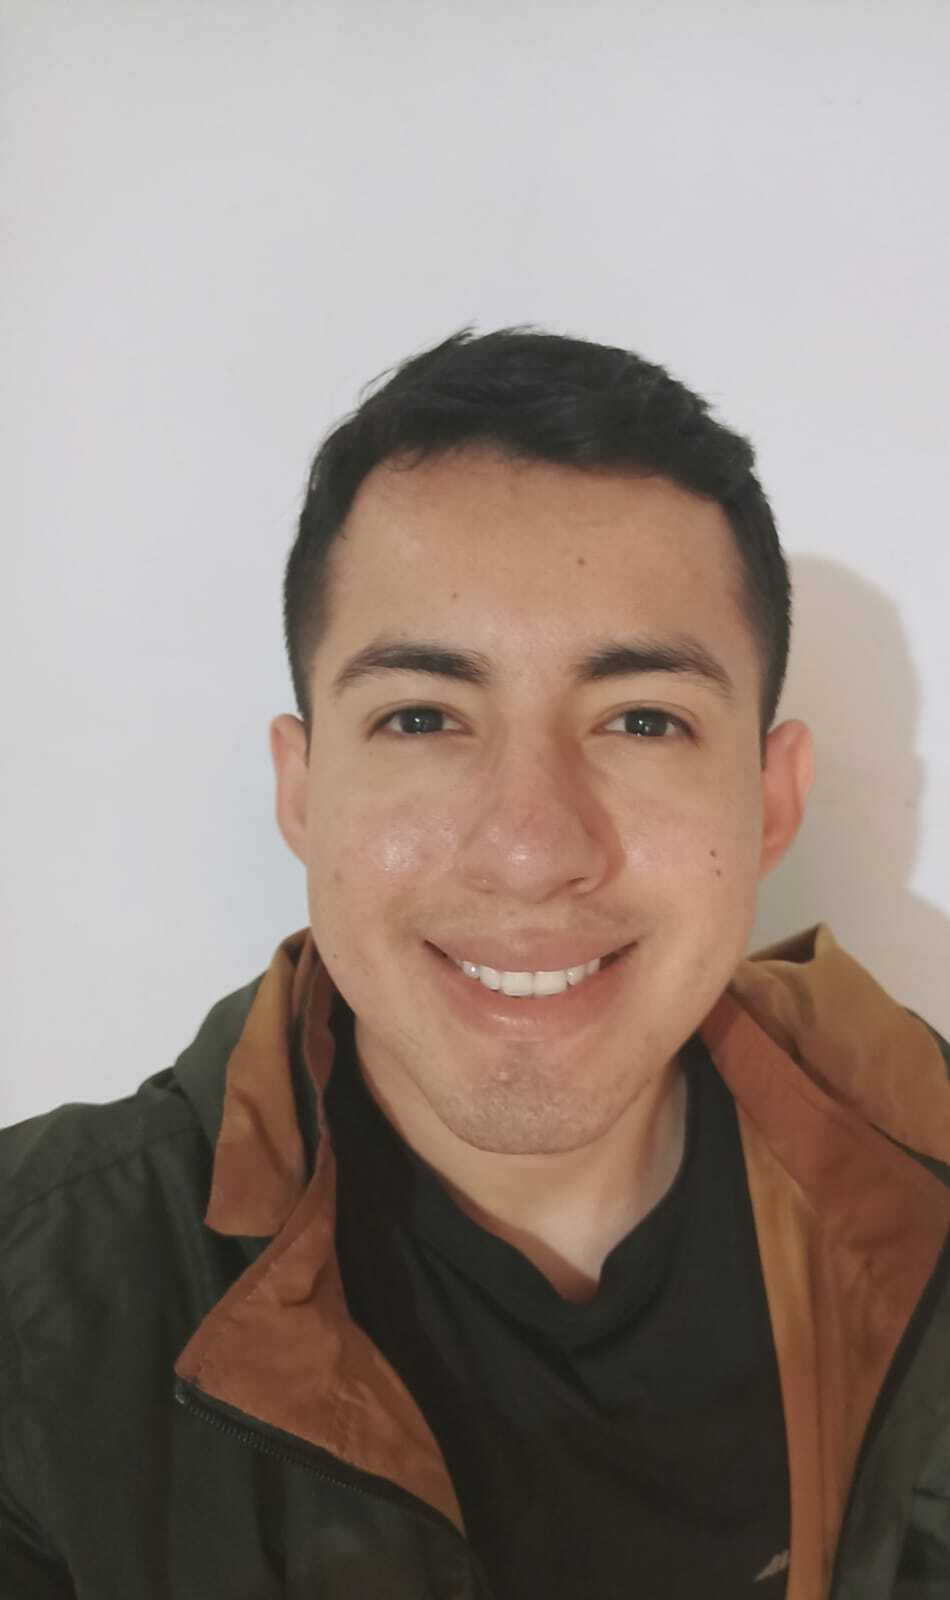
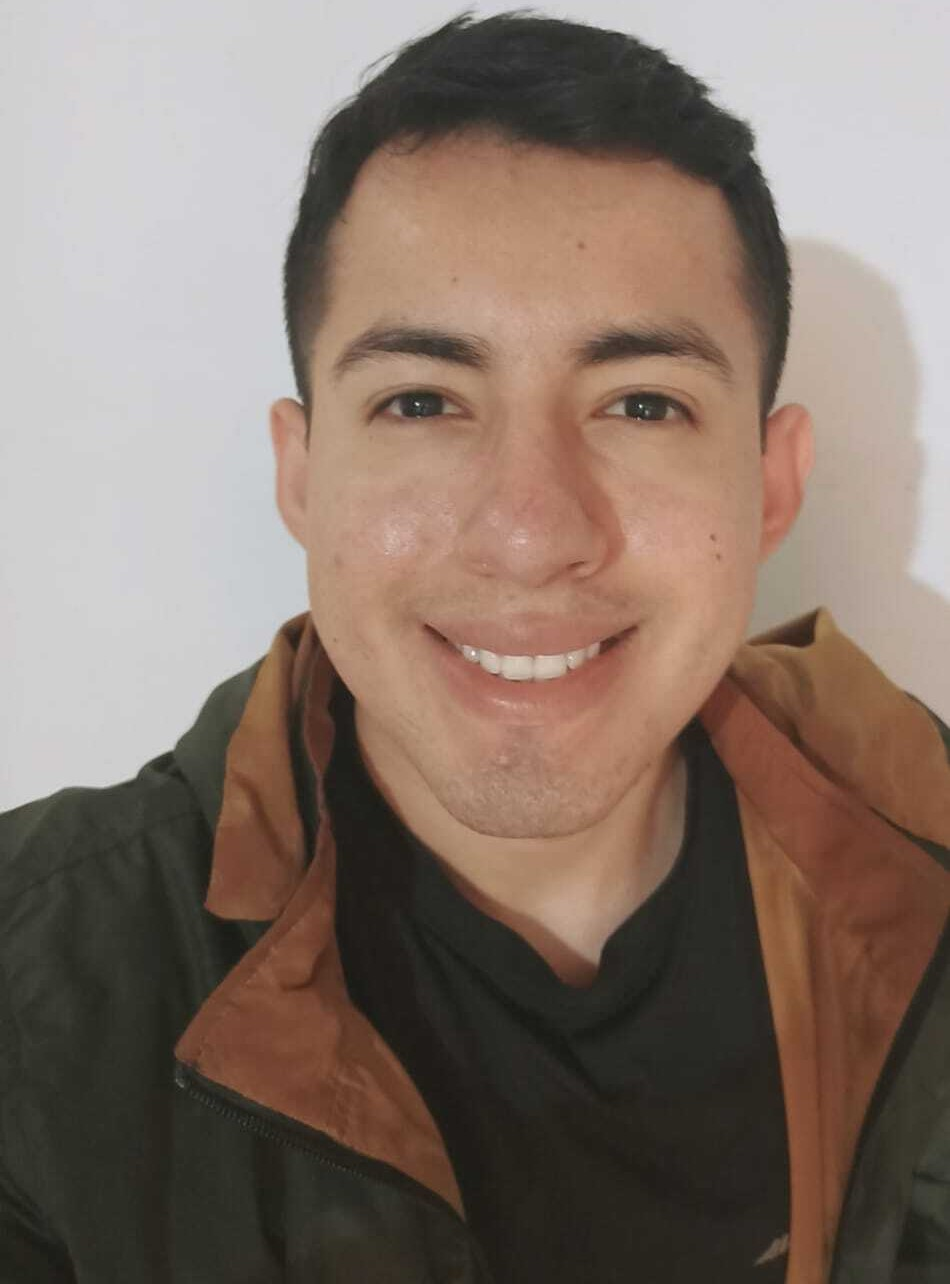
updated bio, added social media links, updated styles

diff --git a/index.html b/index.html
@@ -7,6 +7,9 @@
     <meta name="author" content="Benjamin Burga ">
     <title>Benjamin Burga | WDD 130</title>
     <link rel="stylesheet" href="styles/styles.css">
+    <link rel="preconnect" href="https://fonts.googleapis.com">
+    <link rel="preconnect" href="https://fonts.gstatic.com" crossorigin>
+    <link href="https://fonts.googleapis.com/css2?family=AR+One+Sans&family=Open+Sans:ital@1&family=Roboto:wght@100&display=swap" rel="stylesheet">
 </head>
 <body>
     <header>
@@ -14,14 +17,21 @@
         <a href="#">Home</a>
         <a href="wwr/">White Water Rafting Website</a>
         <a href="wwr/site-plan-rafting.html">White Water Rafting Siteplan</a>
+        <a href="https://www.linkedin.com/in/benjamin-burga" target="_blank">Profile</a>
         </nav>
     </header>
     <main>
         <h1>EFRAIN BENJAMIN BURGA ALCALA | WDD130</h1>
         <img src="images/profile-picture.jpg" alt="Hello, my name is Benjamin Burga" width="200">
-        <p>I am from Peru - Lima, I am very happy to continue learning through BYU. I like technology and learning new things about it, I like pets and sharing time with my family.</p>
+        <p>I'm from Lima, Peru, and I've lived here my whole life. I'm a pet enthusiast and love spending time with furry friends. Soccer is a big part of my life; playing it is one of my favorite pastimes. Technology is another passion of mine; I'm always excited to learn new things in this field. My goal is to work in the exciting world of programming, where I can combine my love for technology with solving challenging problems. Lima is my home and my inspiration, and I hope in the future to contribute to the thriving tech scene here and around the world. In my free time, you can find me exploring the city's vibrant food scene, trying out new recipes, or simply enjoying a game night with my family and friends.
+        </p>
+        <ul class="box indent">
+            <li><a href="https://www.churchofjesuschrist.org/temples/details/antofagasta-chile-temple?lang=eng" target="_blank">Antofagasta Chile Temple</a></li>
+            <li><a href="https://www.churchofjesuschrist.org/temples/details/atlanta-georgia-temple?lang=eng" target="_blank">Atlanta Georgia Temple</a></li>
+            <li><a href="https://www.churchofjesuschrist.org/temples/details/bacolod-philippines-temple?lang=eng">Bacolod Philippines Temple</a></li>
+        </ul>
     </main>
-    <aside>
+    <aside class="box">
         <h2>PERU</h2>
         <img src="images/flag-peru.png" alt="flag of peru">
         <p>
@@ -30,5 +40,6 @@
     <footer>
         <p>&copy; 2023 ✌Benjamin Burga | Lima Peru</p>
     </footer>
+<!-- Last modified: 2023-09-29 -->
 </body>
 </html>

diff --git a/styles/styles.css b/styles/styles.css
@@ -1,3 +1,12 @@
+* {
+    margin: 0;
+    padding: 0;
+    box-sizing: border-box;
+  }
+body{
+    font-family: 'AR One Sans', sans-serif;
+    font-family: 'Open Sans', sans-serif;
+    }
 nav{
     background-color: steelblue;
     padding: 10px;
@@ -9,6 +18,9 @@ nav a{
 }
 h1{
     color: steelblue;
+    margin-left: 1rem;
+    margin-bottom: 1.2rem;
+
 }
 img{
     width: 150px;
@@ -19,6 +31,7 @@ img{
 }
 p{
     padding: 0;
+    margin: 1rem ;
 }
 main{
     max-width: 840px;
@@ -26,26 +39,49 @@ main{
 main img{
     width: 150px;
     height: auto;
-
     border: 1px solid steelblue;
     padding: 2px;
     box-shadow:0 0 30px gray;
+    float: right;
+    margin: 0 0 1rem 1rem;
 }
 aside{
-    width: 20rem;
-    margin: 1rem;
-    border: 1px solid rgba(0, 0, 0, 0.2);
-    padding: 1rem;
-    background-color: #eee;
-    color: #333;
+    width: 200px;
+    height: auto;
     text-align: center;
+    position: relative;
 }
 aside img{
     width: 200px;
     height: auto;
 }
+aside h2{
+    position: absolute;
+    top: 31px;
+    left: 118px;
+    font-size: 25pt;
+    color: rgb(52, 91, 123);
+    
+
+}
 footer{
     margin-top: 1em;
     border-top: 1px solid #000;
     text-align: center;
+}
+/* Class selectors */
+.box {
+    margin: 1rem;
+    border: 1px solid rgba(0,0,0,.1);
+    padding: 2em;
+    background-color: #ddd;
+    color: #000;
+  }
+  aside {
+    width: 20em;
+    text-align: center;
+  }
+.indent{
+    margin-left: 1rem;
+
 }

diff --git a/wwr/site-plan-rafting.html b/wwr/site-plan-rafting.html
@@ -14,6 +14,7 @@
         <h1>Rafting site plan</h1>
         <div>Benjamin Burga</div>
     </header>
+    
     <main>
         <h2>Overview</h2>
         <h3>Purpose</h3>
